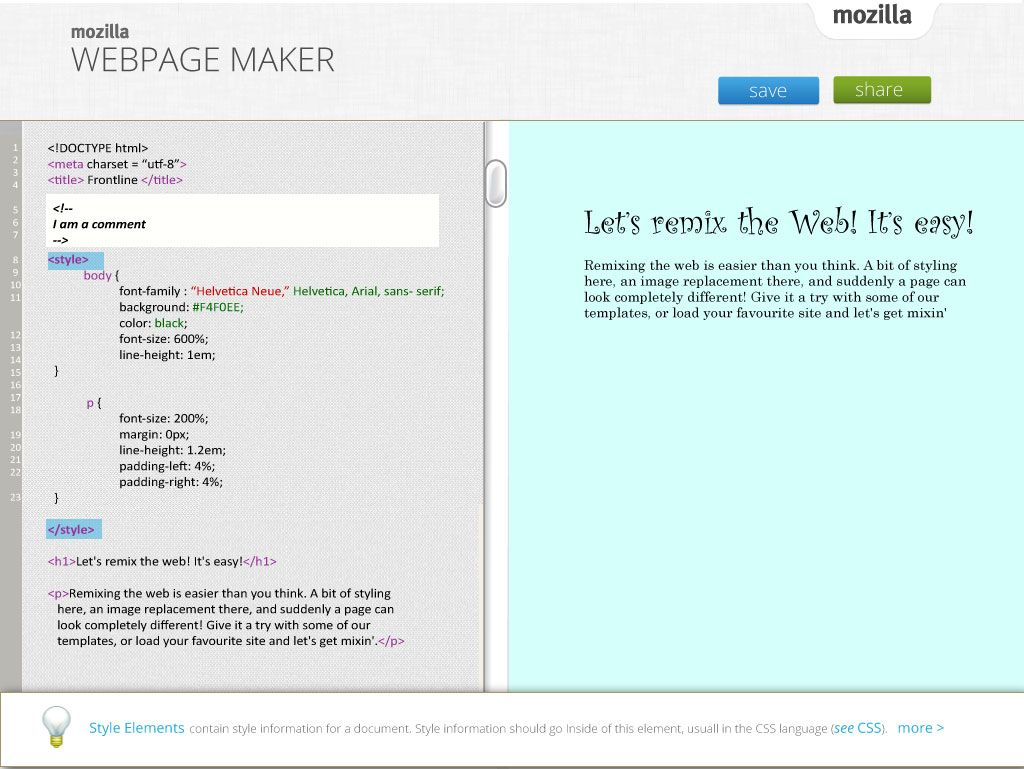
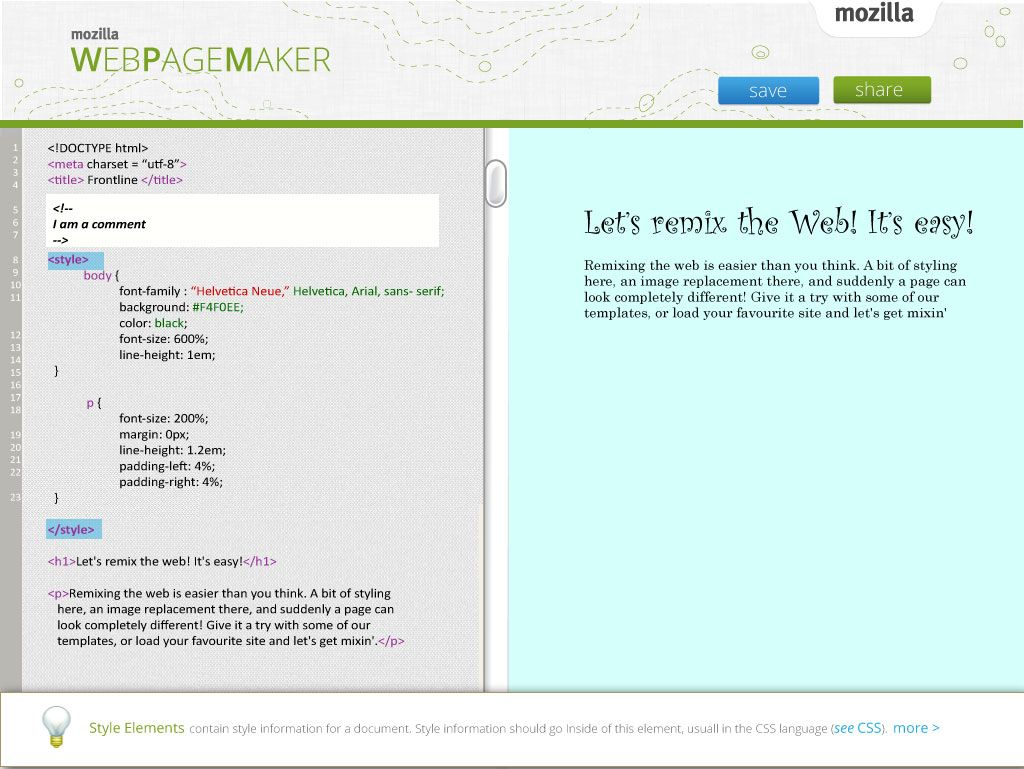
restyle

diff --git a/css/gumdrops.css b/css/gumdrops.css
@@ -1,60 +1,55 @@
 /*	Oh yes, your Gumdrop Buttons
 	SEE http://people.mozilla.org/~smartell/sandstone/screen.css
 	------------------	*/
-	
-	.button {
 
-float: left;
-text-decoration: none;
-text-shadow: 0px 1px 0px rgba(0,0,0,0.25);
-font: 14px/48px 'OpenSansLight', "Lucida Sans", "Lucida Grande", "Lucida Sans Unicode", Verdana, sans-serif;
-letter-spacing: -0.25px;
-background-color: #81BC2E; 
-text-align: center; 
-color: white;
-border-bottom: none;
-padding: 0px 2.5em;
-height: 2em;
-line-height: 2em;
+.button {
+	float: left;
+	text-decoration: none;
+	text-shadow: 0px 1px 0px rgba(0,0,0,0.25);
+	font: 14px/48px 'OpenSansLight', "Lucida Sans", "Lucida Grande", "Lucida Sans Unicode", Verdana, sans-serif;
+	letter-spacing: -0.25px;
+	line-height: 2em;
+	text-align: center; 
 
--webkit-border-radius: 0.25em;
--moz-border-radius: 0.25em;
-border-radius: 0.25em;
+	padding: 0px;
+	height: 2em;
 
--webkit-box-shadow: 0px 2px 0px 0px rgba(0, 0, 0, 0.1), inset 0px -2px 0px 0px rgba(0, 0, 0, 0.1);
--moz-box-shadow: 0px 2px 0px 0px rgba(0, 0, 0, 0.1), inset 0px -2px 0px 0px rgba(0, 0, 0, 0.1);
-box-shadow: 0px 2px 0px 0px rgba(0, 0, 0, 0.1), inset 0px -2px 0px 0px rgba(0, 0, 0, 0.1); 
+	color: white;
+	background-color: #81BC2E; 
+	border-bottom: none;
 
-/* IE10 */ 
-background-image: -ms-linear-gradient(top, #81BC2E 0%, #659C28 100%);
+	-webkit-border-radius: 0.25em;
+	-moz-border-radius: 0.25em;
+	border-radius: 0.25em;
 
-/* Mozilla Firefox */ 
-background-image: -moz-linear-gradient(top, #81BC2E 0%, #659C28 100%);
+	-webkit-box-shadow: 0px 2px 0px 0px rgba(0, 0, 0, 0.1), inset 0px -2px 0px 0px rgba(0, 0, 0, 0.1);
+	-moz-box-shadow: 0px 2px 0px 0px rgba(0, 0, 0, 0.1), inset 0px -2px 0px 0px rgba(0, 0, 0, 0.1);
+	box-shadow: 0px 2px 0px 0px rgba(0, 0, 0, 0.1), inset 0px -2px 0px 0px rgba(0, 0, 0, 0.1); 
 
-/* Opera */ 
-background-image: -o-linear-gradient(top, #81BC2E 0%, #659C28 100%);
+	/* IE10 */ 
+	background-image: -ms-linear-gradient(top, #81BC2E 0%, #659C28 100%);
+	/* Mozilla Firefox */ 
+	background-image: -moz-linear-gradient(top, #81BC2E 0%, #659C28 100%);
+	/* Opera */ 
+	background-image: -o-linear-gradient(top, #81BC2E 0%, #659C28 100%);
+	/* Webkit (Safari/Chrome 10) */ 
+	background-image: -webkit-gradient(linear, left top, left bottom, color-stop(0, #81BC2E), color-stop(1, #659C28));
+	/* Webkit (Chrome 11+) */ 
+	background-image: -webkit-linear-gradient(top, #81BC2E 0%, #659C28 100%);
+	/* Proposed W3C Markup */ 
+	background-image: linear-gradient(top, #81BC2E 0%, #659C28 100%);
 
-/* Webkit (Safari/Chrome 10) */ 
-background-image: -webkit-gradient(linear, left top, left bottom, color-stop(0, #81BC2E), color-stop(1, #659C28));
+	-webkit-transition-property: -moz-box-shadow, -webkit-box-shadow, box-shadow;  
+	-webkit-transition-duration: 0.25s;  
+	-webkit-transition-delay: 0s;
 
-/* Webkit (Chrome 11+) */ 
-background-image: -webkit-linear-gradient(top, #81BC2E 0%, #659C28 100%);
+	-moz-transition-property: -moz-box-shadow, -webkit-box-shadow, box-shadow;  
+	-moz-transition-duration: 0.25s;  
+	-moz-transition-delay: 0s;
 
-/* Proposed W3C Markup */ 
-background-image: linear-gradient(top, #81BC2E 0%, #659C28 100%);
-
--webkit-transition-property: -moz-box-shadow, -webkit-box-shadow, box-shadow;  
--webkit-transition-duration: 0.25s;  
--webkit-transition-delay: 0s;
-
--moz-transition-property: -moz-box-shadow, -webkit-box-shadow, box-shadow;  
--moz-transition-duration: 0.25s;  
--moz-transition-delay: 0s;
-
-transition-property: -moz-box-shadow, -webkit-box-shadow, box-shadow;  
-transition-duration: 0.25s;  
-transition-delay: 0s;
-
+	transition-property: -moz-box-shadow, -webkit-box-shadow, box-shadow;  
+	transition-duration: 0.25s;  
+	transition-delay: 0s;
 }
 
 .button.blue {

diff --git a/css/editor.css b/css/editor.css
@@ -22,18 +22,20 @@ iframe {
   z-index: 2;
   top: 0;
 
-  background-color: rgb(210,210,210);
-  background: url("../img/topnav-texture.png") repeat;
+  background-color: #D2D2D2;
+  background-image: url("../img/embroidery-texture.png"), url("../img/topnav-texture.png");
+  background-position: left top, left center;
+  background-repeat: repeat, repeat;  background-color: rgb(210,210,210);
 
   font-family: OpenSansRegular;
   color: #333;
 
-  height: 8em;                    /* NOTE: this value MUST agree with [#html-editor, #live-render].margin-top */
+  height: 8em;                    /* NOTE: this value + border-bottom MUST agree with [#html-editor, #live-render].margin-top */
   width: 100%;
   margin: 0px;
   padding: 0px;
 
-  border-bottom: 1px solid black;
+  border-bottom: 0.5em solid #7ba127; /* NOTE: this value + height MUST agree with [#html-editor, #live-render].margin-top */
 }
 
 
@@ -50,6 +52,10 @@ iframe {
   margin: 0px;
   padding: 0px;
   z-index: 1000;
+
+
+  -webkit-box-shadow: 0px -5px 10px -8px rgba(0, 0, 0, 1);
+  box-shadow: 0px -5px 10px -8px rgba(0, 0, 0, 1);
 }
 
 #split-pane {
@@ -68,22 +74,22 @@ iframe {
   display: inline-block;
   position: fixed;
   top: 0px;
-  margin-top: 8em;                /* NOTE: this value MUST agree with [#header].height */
-
+  margin-top: 8.5em;                /* NOTE: this value MUST agree with [#header].height */
   width: 50%;
+  height: 100%;
   overflow: hidden;
 }
 
 #html-editor {
   background-color: white;
   overflow: auto;
+  overflow-y: scroll;
   background: url("../img/codemirror-gutter.png") repeat-y, url("../img/editor-left-texture.png") repeat;
 }
 
 #html-editor,
 .CodeMirror-scroll.cm-s-jsbin {
   height: 100%;
-  overflow: hidden;
 }
 
 #live-render {
@@ -164,8 +170,8 @@ code {
   padding: 1px 2px 1px 2px;
   margin: 0px 2px 0px 2px;
   font-size: smaller;
-  background: lightgray;
-  color: #222222;
+  background: rgb(0,130,255);
+  color: white;
 }
 
 .help a.learn-more:hover {
@@ -252,6 +258,7 @@ code {
     /* EDIT LOGO INSTEAD */
     position: relative;
     left: -5px;
+    top: 0.2em;
 }
 
 img {
@@ -284,14 +291,58 @@ img {
     width: 16px;
 }
 
-#save_button {
+#save_button, #share_button {
   position: relative;
   right: 8em;
-  top: -2em;
+  top: -1em;
+  cursor: pointer;
 }
 
 #share_button {
-  position: relative;
   right: 7em;
-  top: -2em;
+}
+
+.error,
+.help {
+  display: table-row;
+  width: 100%;
+}
+
+.error .icon,
+.help .icon,
+.error .content,
+.help .content {
+  display: table-cell;
+}
+
+.error .icon img,
+.help .icon img {
+  height: 3em;
+  width: 3em;
+  margin: 1em;
+  margin-left: 2em;
+  vertical-align: middle;
+}
+
+.button {
+  padding: 0px 1.5em;
+}
+
+div.logo a {
+  color: #7c9e30;
+}
+
+b {
+  font-family: OpenSansRegular, sans-serif;
+}
+
+.content {
+  color: #666;
+}
+.content strong {
+  color: #7c9e30;
+  font-family: OpenSansRegular, sans-serif;	
+}
+.content code {
+  color: rgb(0,130,255);
 }

diff --git a/js/editor.js b/js/editor.js
@@ -12,10 +12,11 @@ var errorHelpMarks = null;
 
 // Report the given Slowparse error.
 function reportError(error) {
-  $(".error").fillError(error).eachErrorHighlight(function(start, end, i) {
+  $(".help").hide();
+  $(".error").show();
+  $(".error .content").fillError(error).eachErrorHighlight(function(start, end, i) {
     errorHelpMarks.mark(start, end, "highlight-" + (i+1));
   });
-  $(".help").hide();
 }
 
 // Update the preview area with the given HTML.
@@ -50,9 +51,11 @@ function onCursorActivity() {
   cursorHelpMarks.clear();
   var help = helpIndex.get(editor.getCursorIndex());
   if (help) {
+	$(".error").hide();
+	$(".help").show();
     var learn = $("#templates .learn-more").clone()
       .attr("href", help.url);
-    $(".help").html(help.html).append(learn).show();
+    $(".help .content").html(help.html).append(learn).show();
     help.highlights.forEach(function(interval) {
       cursorHelpMarks.mark(interval.start, interval.end,
                            "cursor-help-highlight");

diff --git a/index.html b/index.html
@@ -17,14 +17,13 @@
         <div class="logo">
           <a href=".">
             <img src="img/mozilla-logo.png">
-            WEBPAGE MAKER
+            <b>W</b>EB<b>P</b>AGE <b>M</b>AKER
           </a>
         </div>
       </div>
 	  <div id="publish-box">
         <a class="button blue" id="save_button">SAVE</a>
         <a class="button" id="share_button">SHARE</a>
-        <!--<div id="publish-text">← Click here when you're done remixing!</div>-->
 	  </div>
     </header>
 
@@ -53,8 +52,14 @@
 
     <!-- footer -->
     <div id="footer">
-      <div class="error" class="hidden"></div>
-      <div class="help" class="hidden"></div>
+      <div class="error" class="hidden">
+	    <div class="icon"><img src="img/error.png"></div>
+	    <div class="content"></div>
+	  </div>
+      <div class="help" class="hidden">
+	    <div class="icon"><img src="img/help.png"></div>
+	    <div class="content"></div>
+	  </div>
     </div>
 
     <!-- (invisible) template for help -->

diff --git a/js/publish.js b/js/publish.js
@@ -34,7 +34,7 @@ $(window).bind("editorloaded", function() {
     dlg.hide();
     return false;
   });
-  $("#publish").click(function() {
+  $("#share_button").click(function() {
     dlg.show();
     $(".done", dlg).hide();
     $.ajax({
